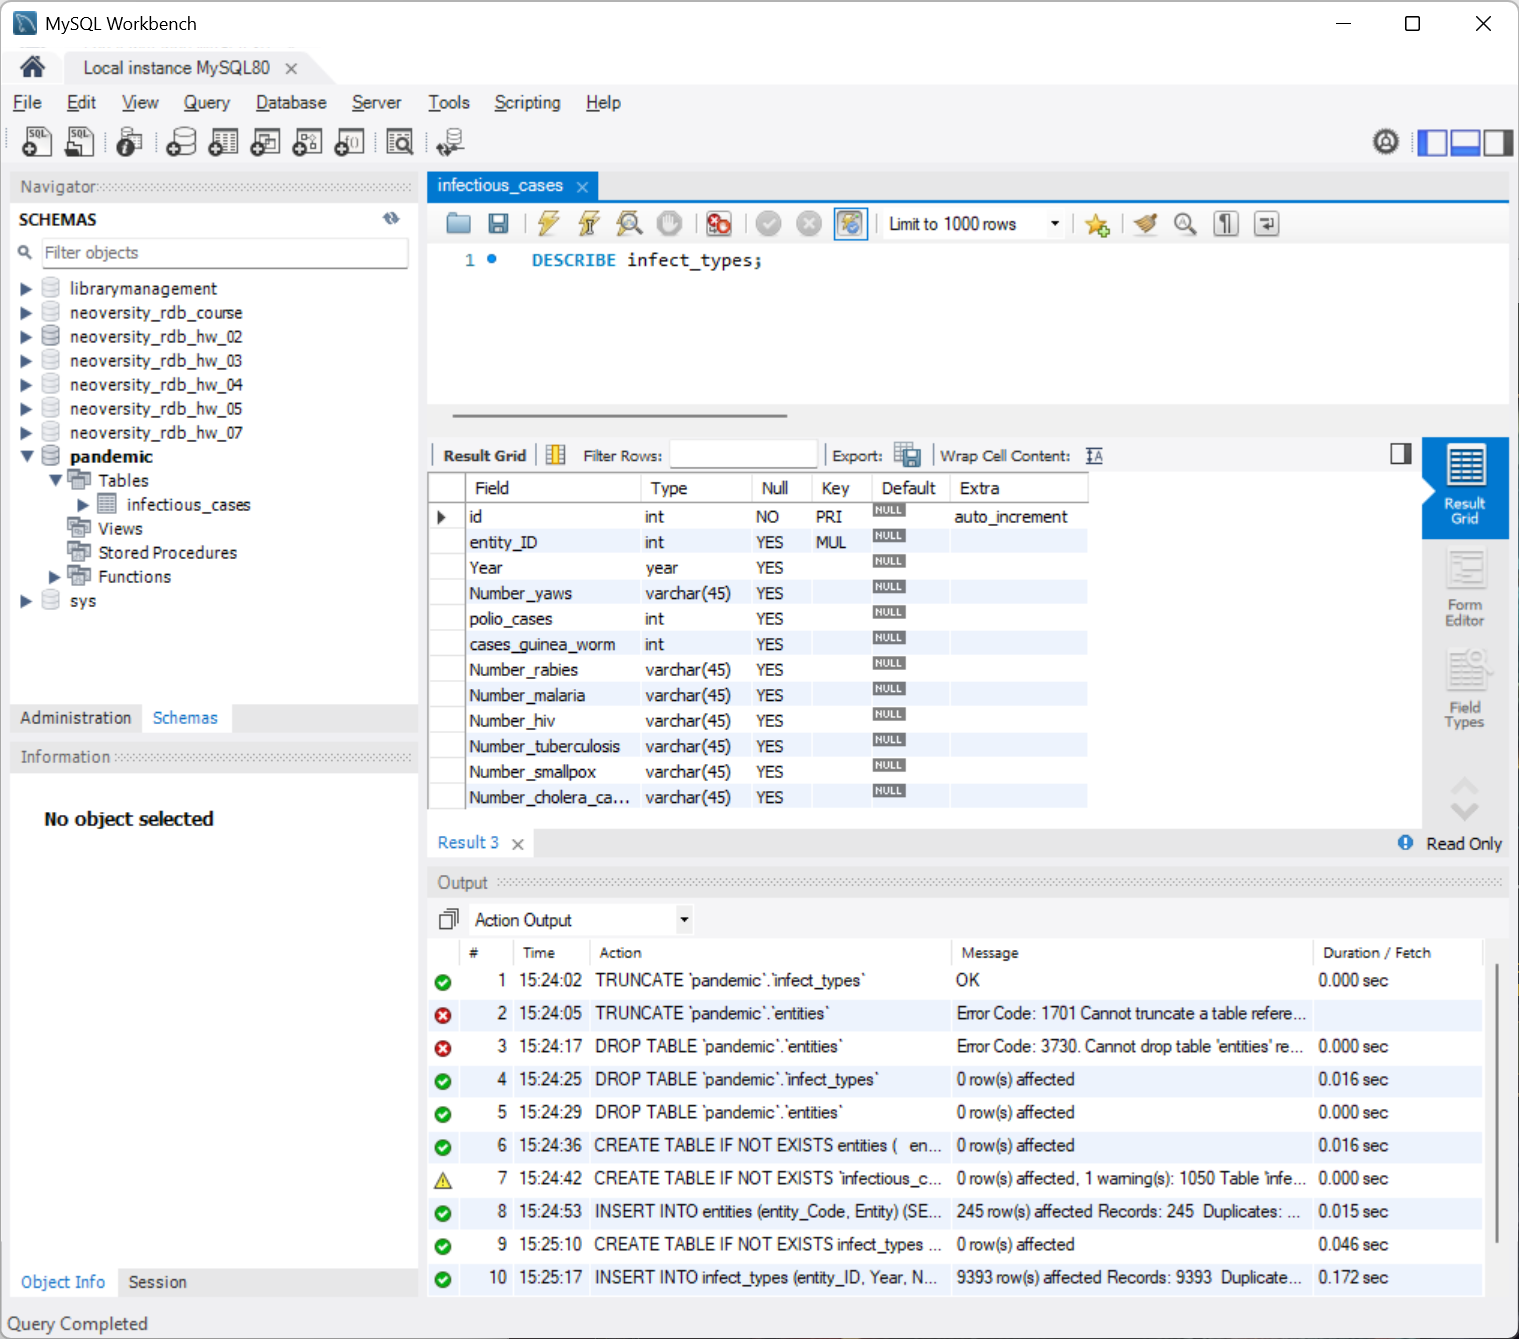
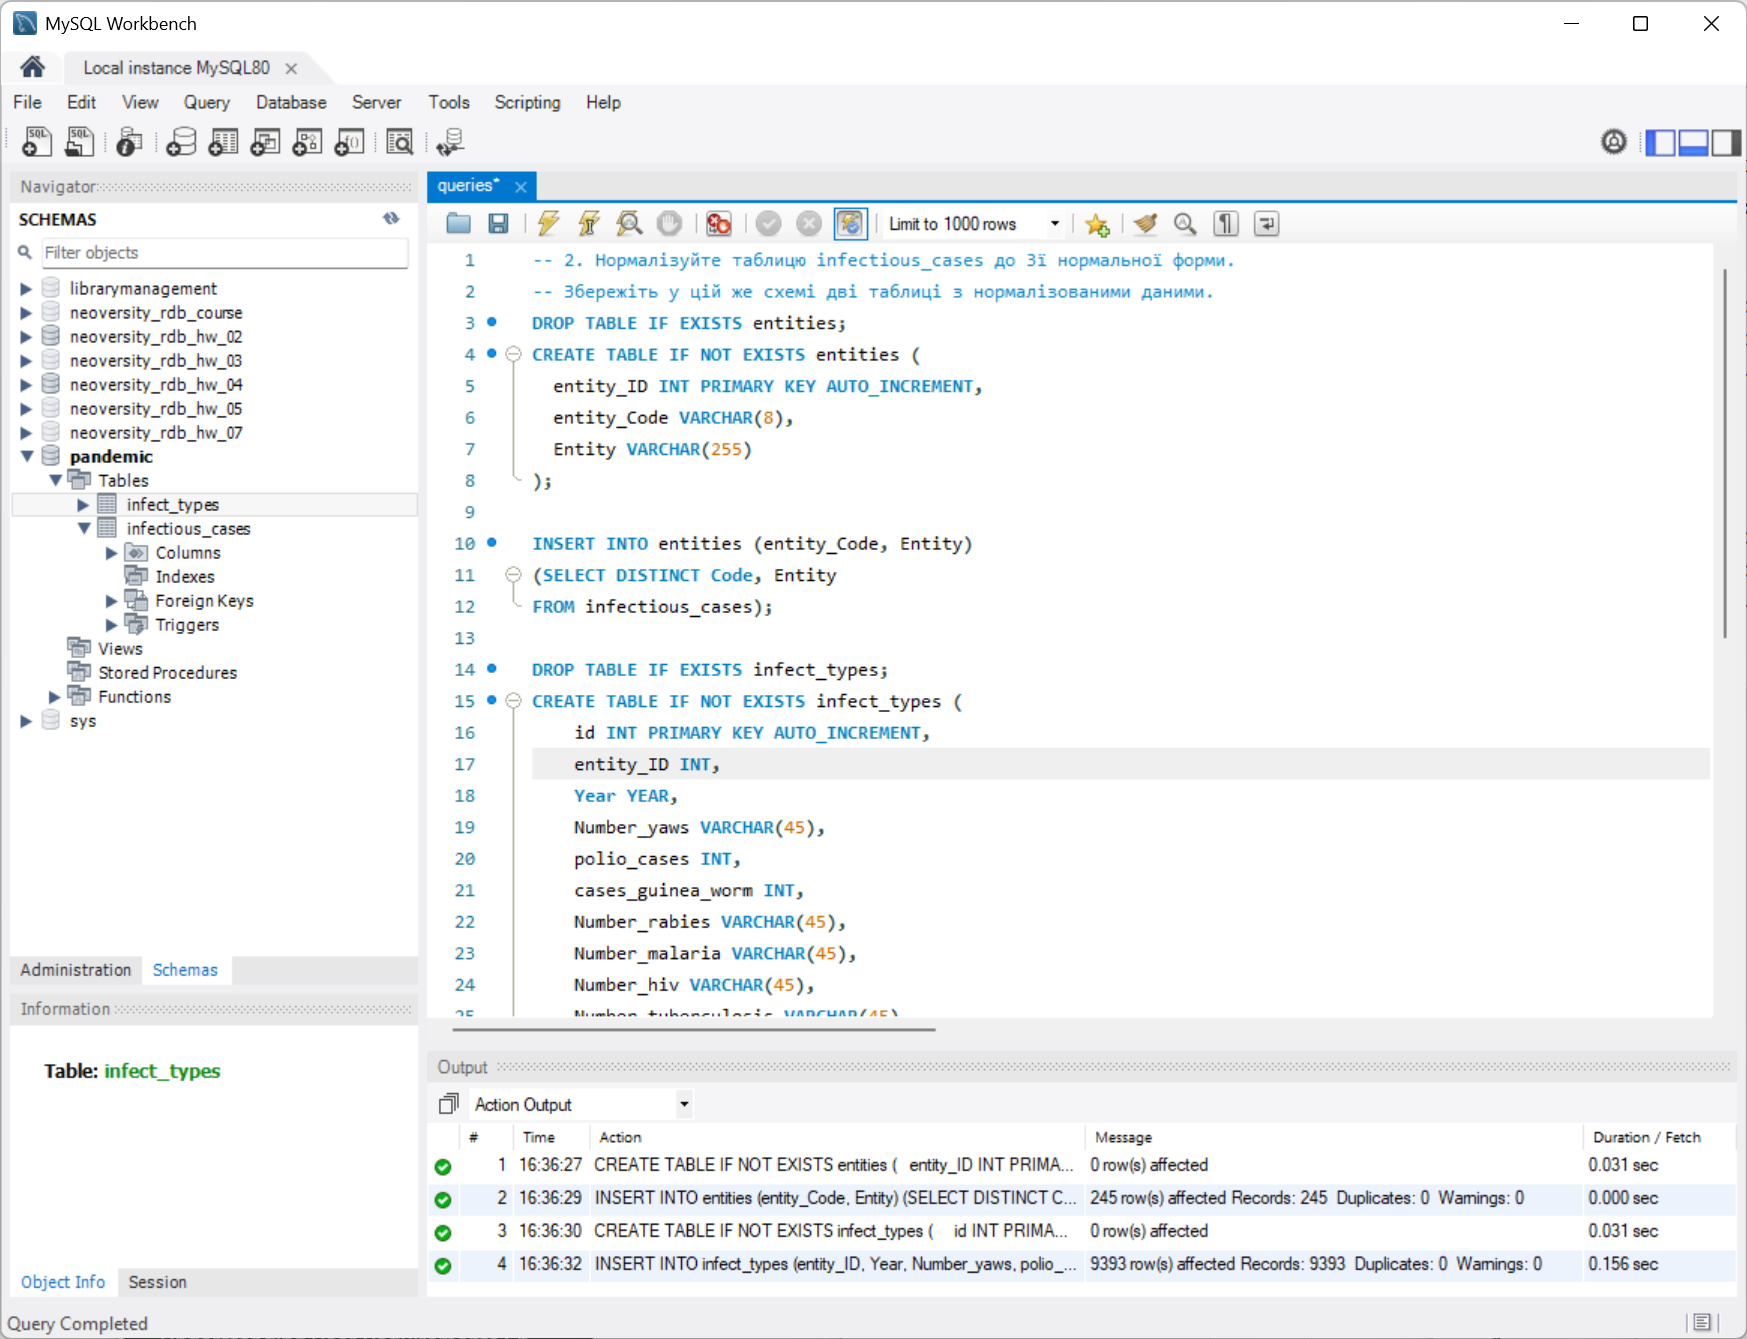
Add more screens

diff --git a/README.md b/README.md
@@ -63,13 +63,16 @@
 
 ![Screen-Homework-Point5-02](assets/p5-02.png)
 
-Допрацювання:
+## Допрацювання:
 - Дані були імпортовані знову. Попередня відсутність частини даних пов'язана з "жорстким" режимом перевірки імпортованих даних (strict mode)
 - Зроблені перерахунки результатів запитів
 
-![Screen-Homework-PointC-01](assets/p5-01.png)
-![Screen-Homework-PointC-02](assets/p5-02.png)
-![Screen-Homework-PointC-03](assets/p5-03.png)
-![Screen-Homework-PointC-04](assets/p5-04.png)
-![Screen-Homework-PointC-05](assets/p5-05.png)
-![Screen-Homework-PointC-06](assets/p5-06.png)
+![Screen-Homework-PointC-01](assets/pc-01.png)
+![Screen-Homework-PointC-02](assets/pc-02.png)
+![Screen-Homework-PointC-03-01](assets/pc-03-01.png)
+![Screen-Homework-PointC-03-02](assets/pc-03-02.png)
+![Screen-Homework-PointC-04](assets/pc-04.png)
+![Screen-Homework-PointC-05-01](assets/pc-05-01.png)
+![Screen-Homework-PointC-05-02](assets/pc-05-02.png)
+![Screen-Homework-PointC-05-03](assets/pc-05-03.png)
+![Screen-Homework-PointC-05-04](assets/pc-05-04.png)
